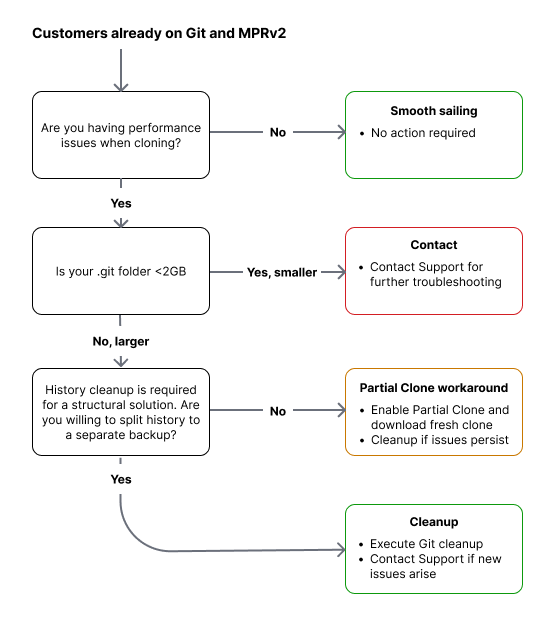
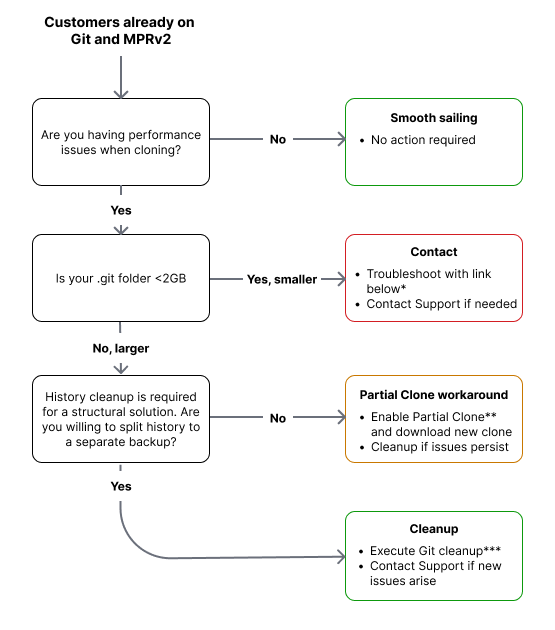
Updated visual

diff --git a/content/en/docs/refguide/version-control/version-control-troubleshooting/repository-size.md b/content/en/docs/refguide/version-control/version-control-troubleshooting/repository-size.md
@@ -208,4 +208,8 @@ Follow the decision tree in the image below for help with Git-related performanc
 
 {{< figure src="/attachments/refguide/version-control/troubleshoot-version-control-issues/migration-advice-mx11.png" class="no-border" >}}
 
-For more information on partial clone, see [Clone Type](/refguide/clone-type/).
+\* In case your .git folder is <2GB but you are having performance issues when cloning, please consult [Verify Full Clone Through Git CLI](/refguide10/troubleshoot-team-server-issues/#verify-full-clone-through-git-cli]) and contact Support with the relevant information.
+
+\** For more information on partial clone, see [Clone Type](/refguide10/clone-type/).
+
+\*** For more information on Git cleanup, see [Cleanup](/refguide10/troubleshoot-repository-size/#cleanup-tool).
